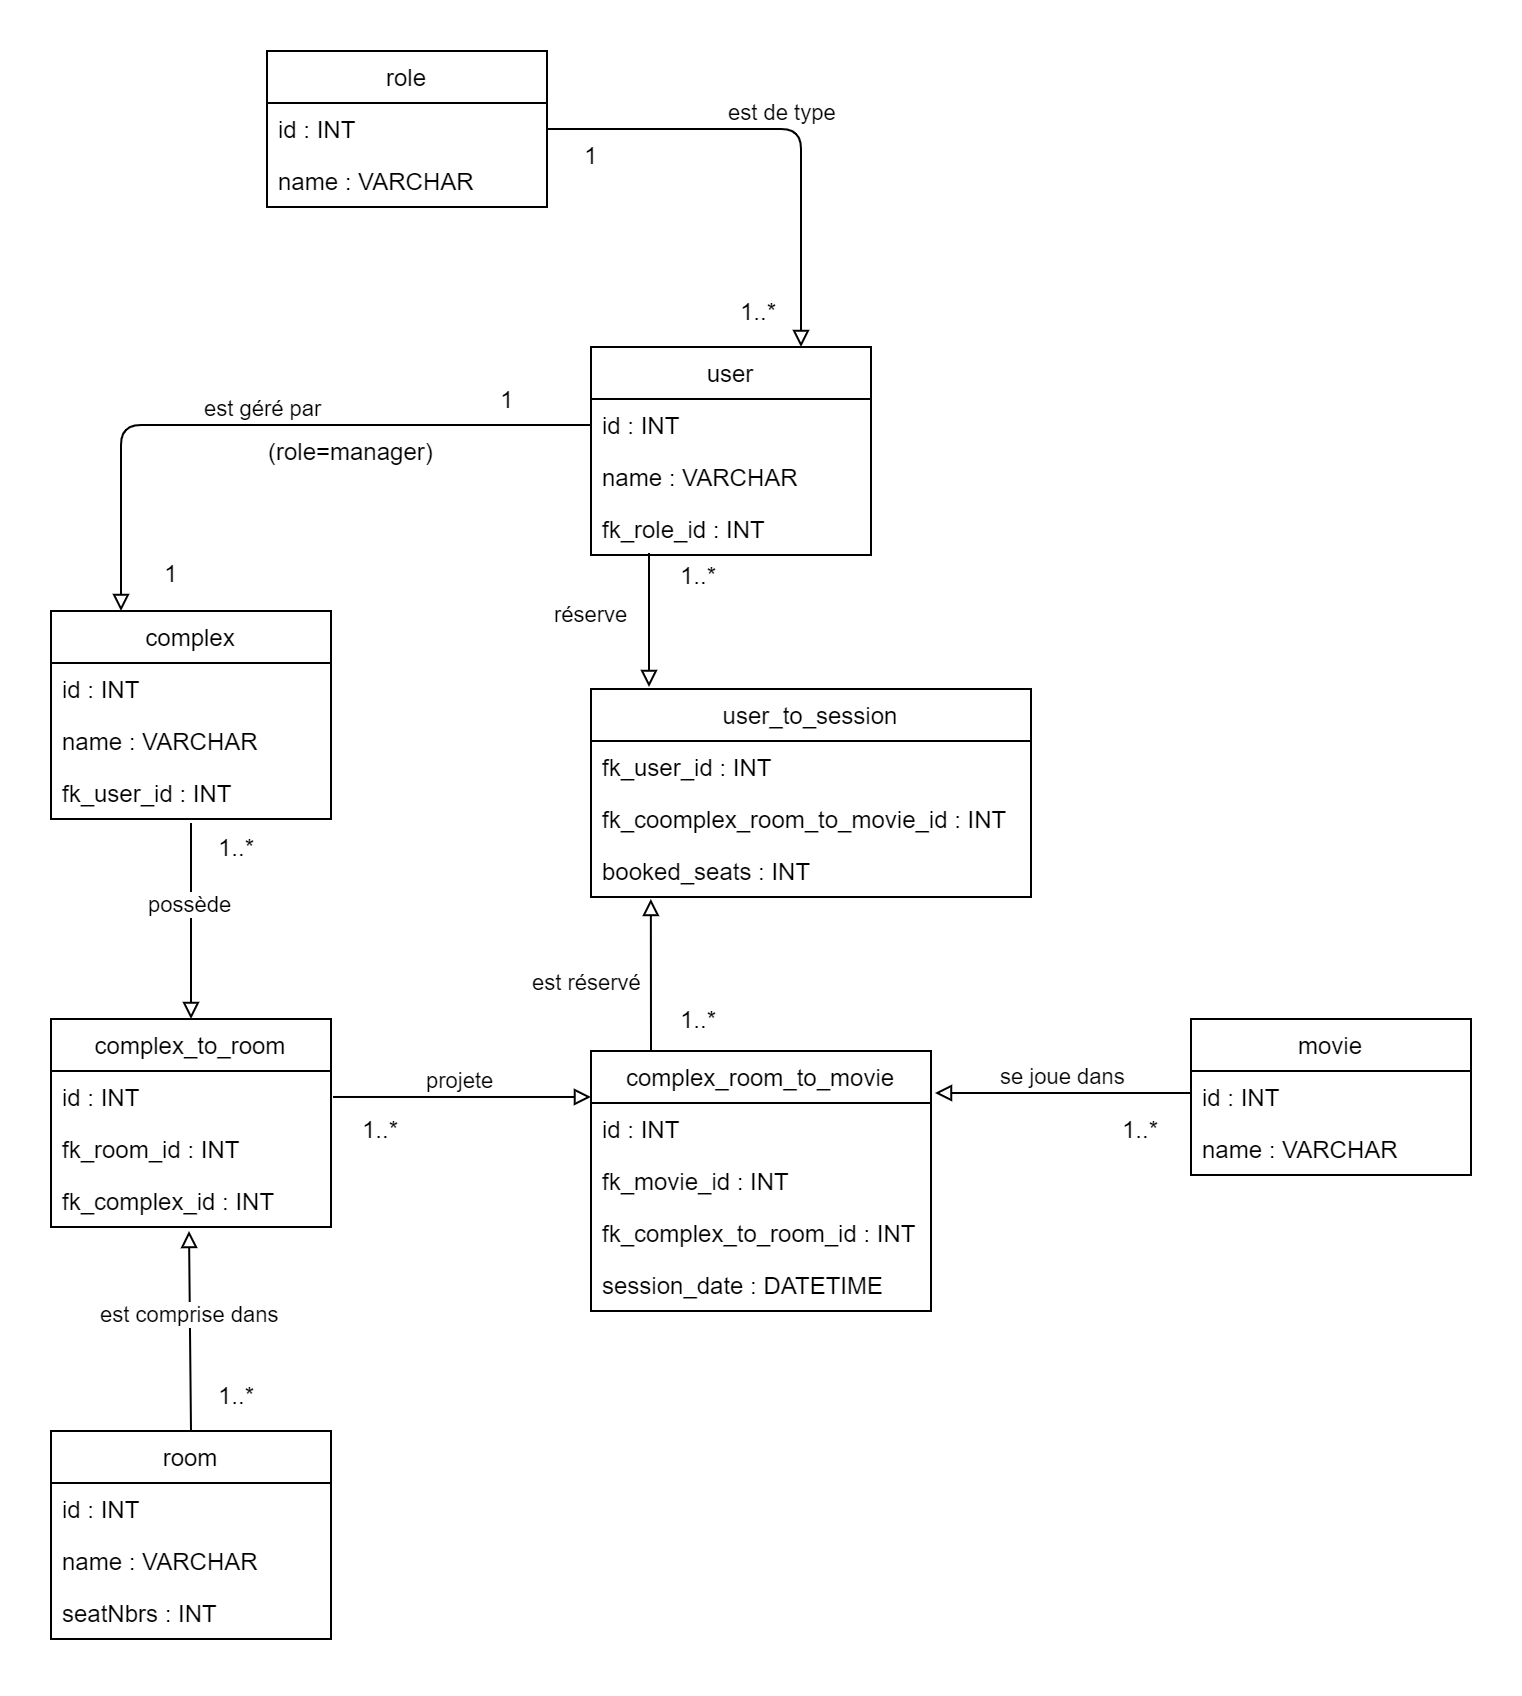
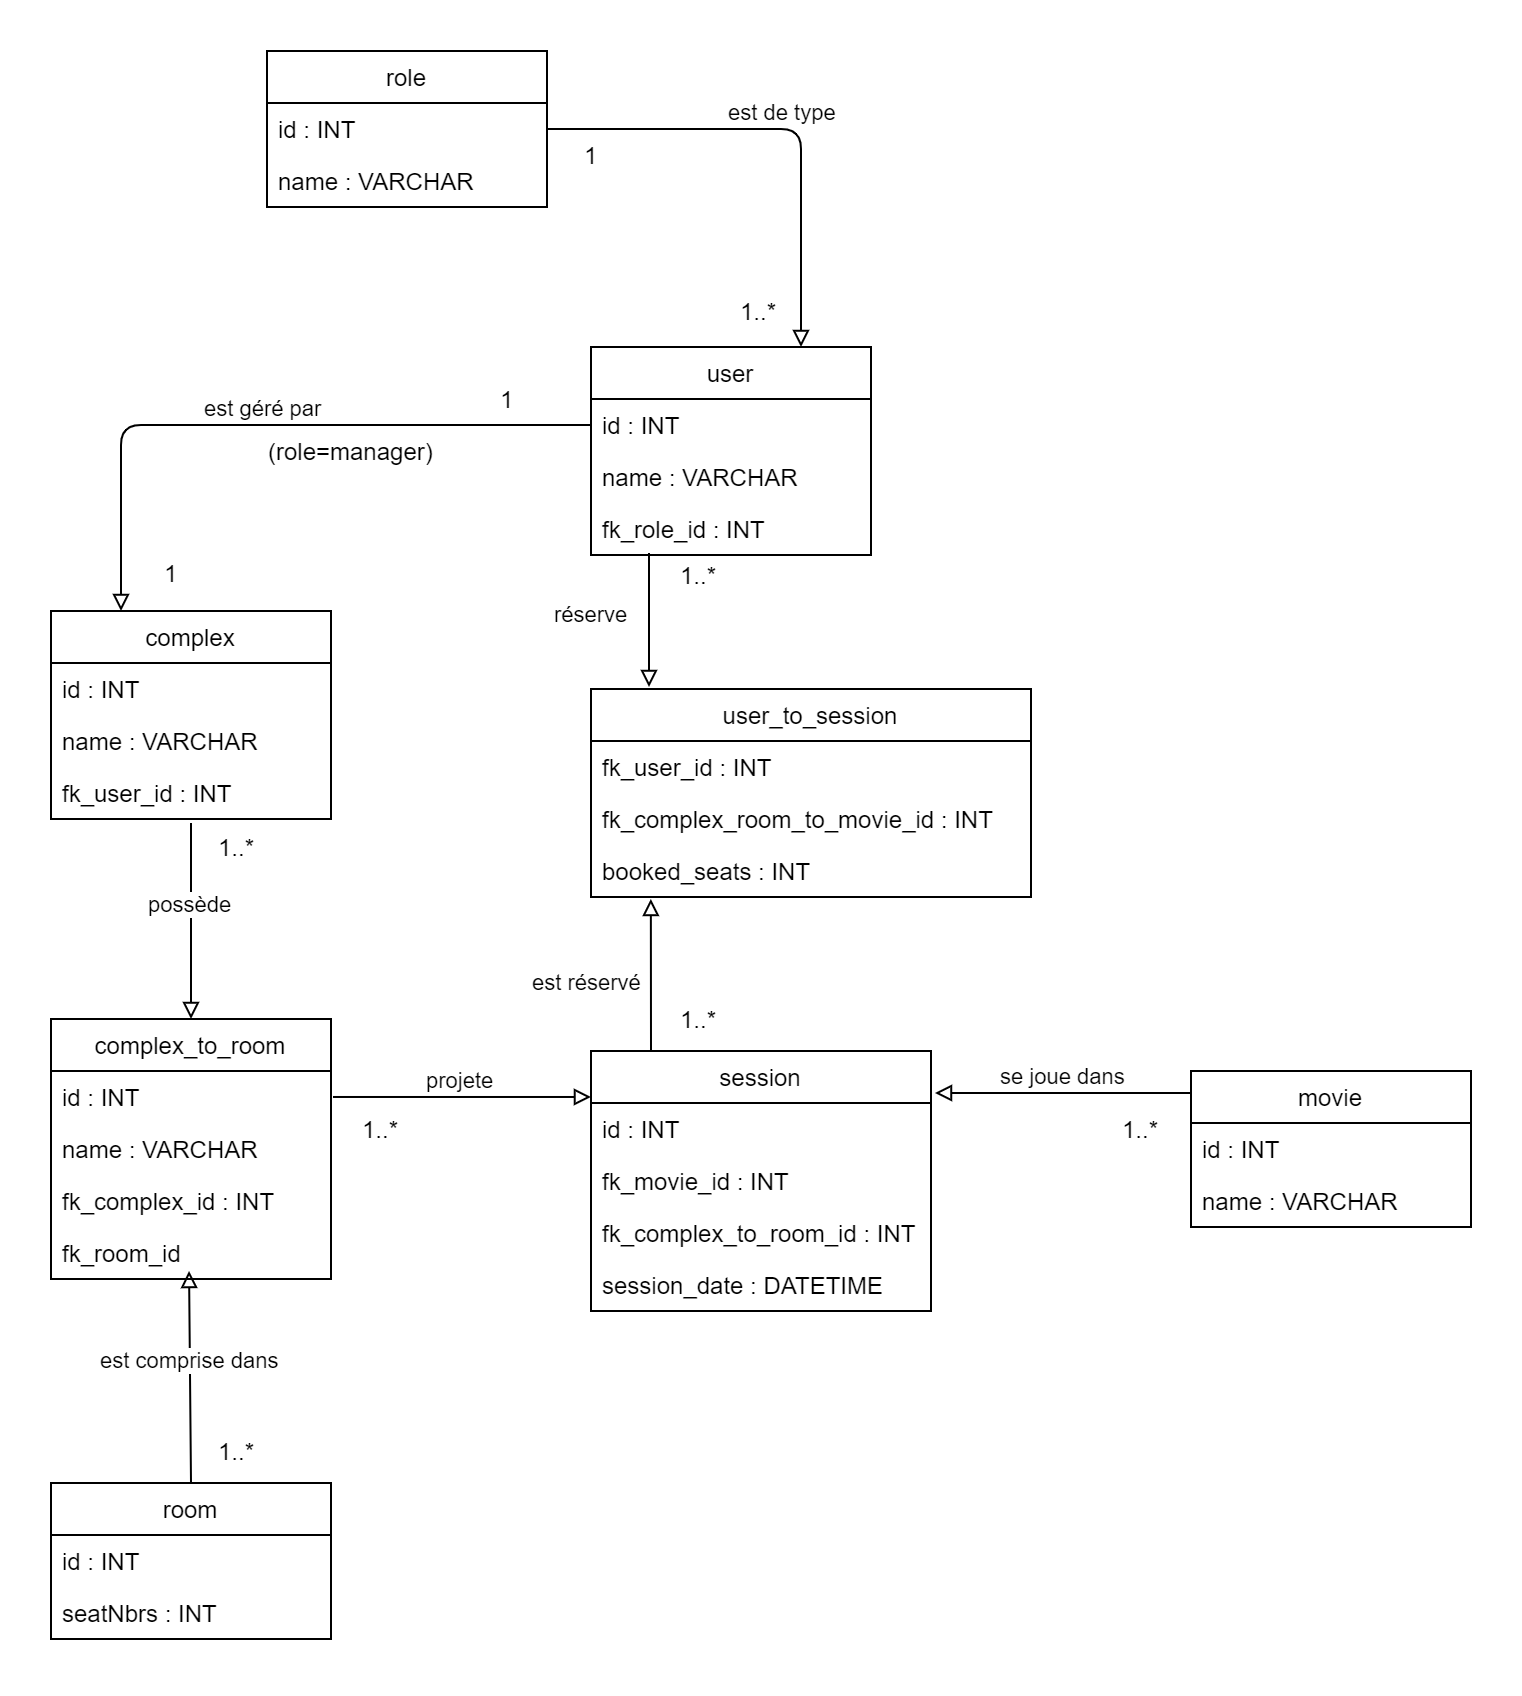
explication choix techniques dans diagramme de classe et 3ème version du diagramme de classe

diff --git a/README.md b/README.md
@@ -19,7 +19,8 @@ Créer et administrer une base de données
 2. Clone dépôt en local pour le développement
 3. Ajout énoncé au projet pour initialisation
 4. Analyse demande commanditaire
-5. 
+5. Diagramme de classe UML
+6.
 
 # Analyse demande commanditaire
 * ***LE COMMANDITAIRE*** est partenaire de ***PLUSIEURS*** complexes.
@@ -36,6 +37,19 @@ Créer et administrer une base de données
 * ***GESTION SCEANCES***
     * ***UN OU PLUSIERS ADMINISTRATEURS*** centraux pour ***TOUTES LES SCEANCES DE TOUTES LES SALLES***.
     * ***UN SEUL UTILISATEUR PAR COMPLEXE*** pour ***UNIQUEMENT SES SALLES***.
+
+# CHOIX techniques Diagramme de classe UML
+* J'ai choisi de rester simple et de ne pas mettre trop d'attributs aux tables ***USER***,***COMPLEX*** et ***MOVIE***, ce qui pour une application plus complête se devrait d'être fait.
+* ***UNE SALLE*** peut appartenir à ***PLUSIEURS COMPLEXES***(salle caractérisée uniquement par son nombre de siège, et ***UN COMPLEXE*** peut avoir ***PLUSIEURS SALLES*** de même nombre de siège de part le fait qu'on peut les nommer dans la table d'association ce qui les différencie).
+* table ***COMPLEX_TO_ROOM*** chaque ligne se doit d'être unique.
+* ***UN FILM*** peut être projeté dans ***PLUSIEURS SALLES*** et ***UNE SALLE*** peut projeter ***PLUSIEURS FILMS***.
+* ***UN UTILISATEUR*** peut réserver ***PLUSIEURS BOOKED_SEATS*** dans  ***PLUSIEURS SESSION*** , et ***UNE SESSION*** peut être réservée par ***PLUSIEURS UTILISATEURS***.
+* ***UN UTILSATEUR*** ne peut avoir qu'***UN ROLE*** mais ***UN ROLE*** peut être attribué à ***PLUSIEURS UTILISATEURS***.
+* Afin de restreindre uniquement à son complexe les films qu'un gérant peut programmer il faut attribuer à chaque complexe son gérant unique.
+* Les rôles d'administrateur ne serviront qu'à autoriser l'accès à toutes les fonctionalités du site.
+* Le rôle de client n'est attribué qu'aux acheteurs de places.
+* ***UN UTILISATEUR*** peut être ***UN GERANT*** de salle mais ***UNE SALLE*** ne peut avoir qu'***UN GERANT***.
+* Au lieu d'appeler la table d'association entre ***COMPLEX_TO_ROOM*** et ***MOVIE*** ***COMPLEX_TO_ROOM_TO_MOVIE*** je l'ai appelée ***SESSION*** qui est beaucoup plus représentatif.
 
 
 ## Liens utiles
